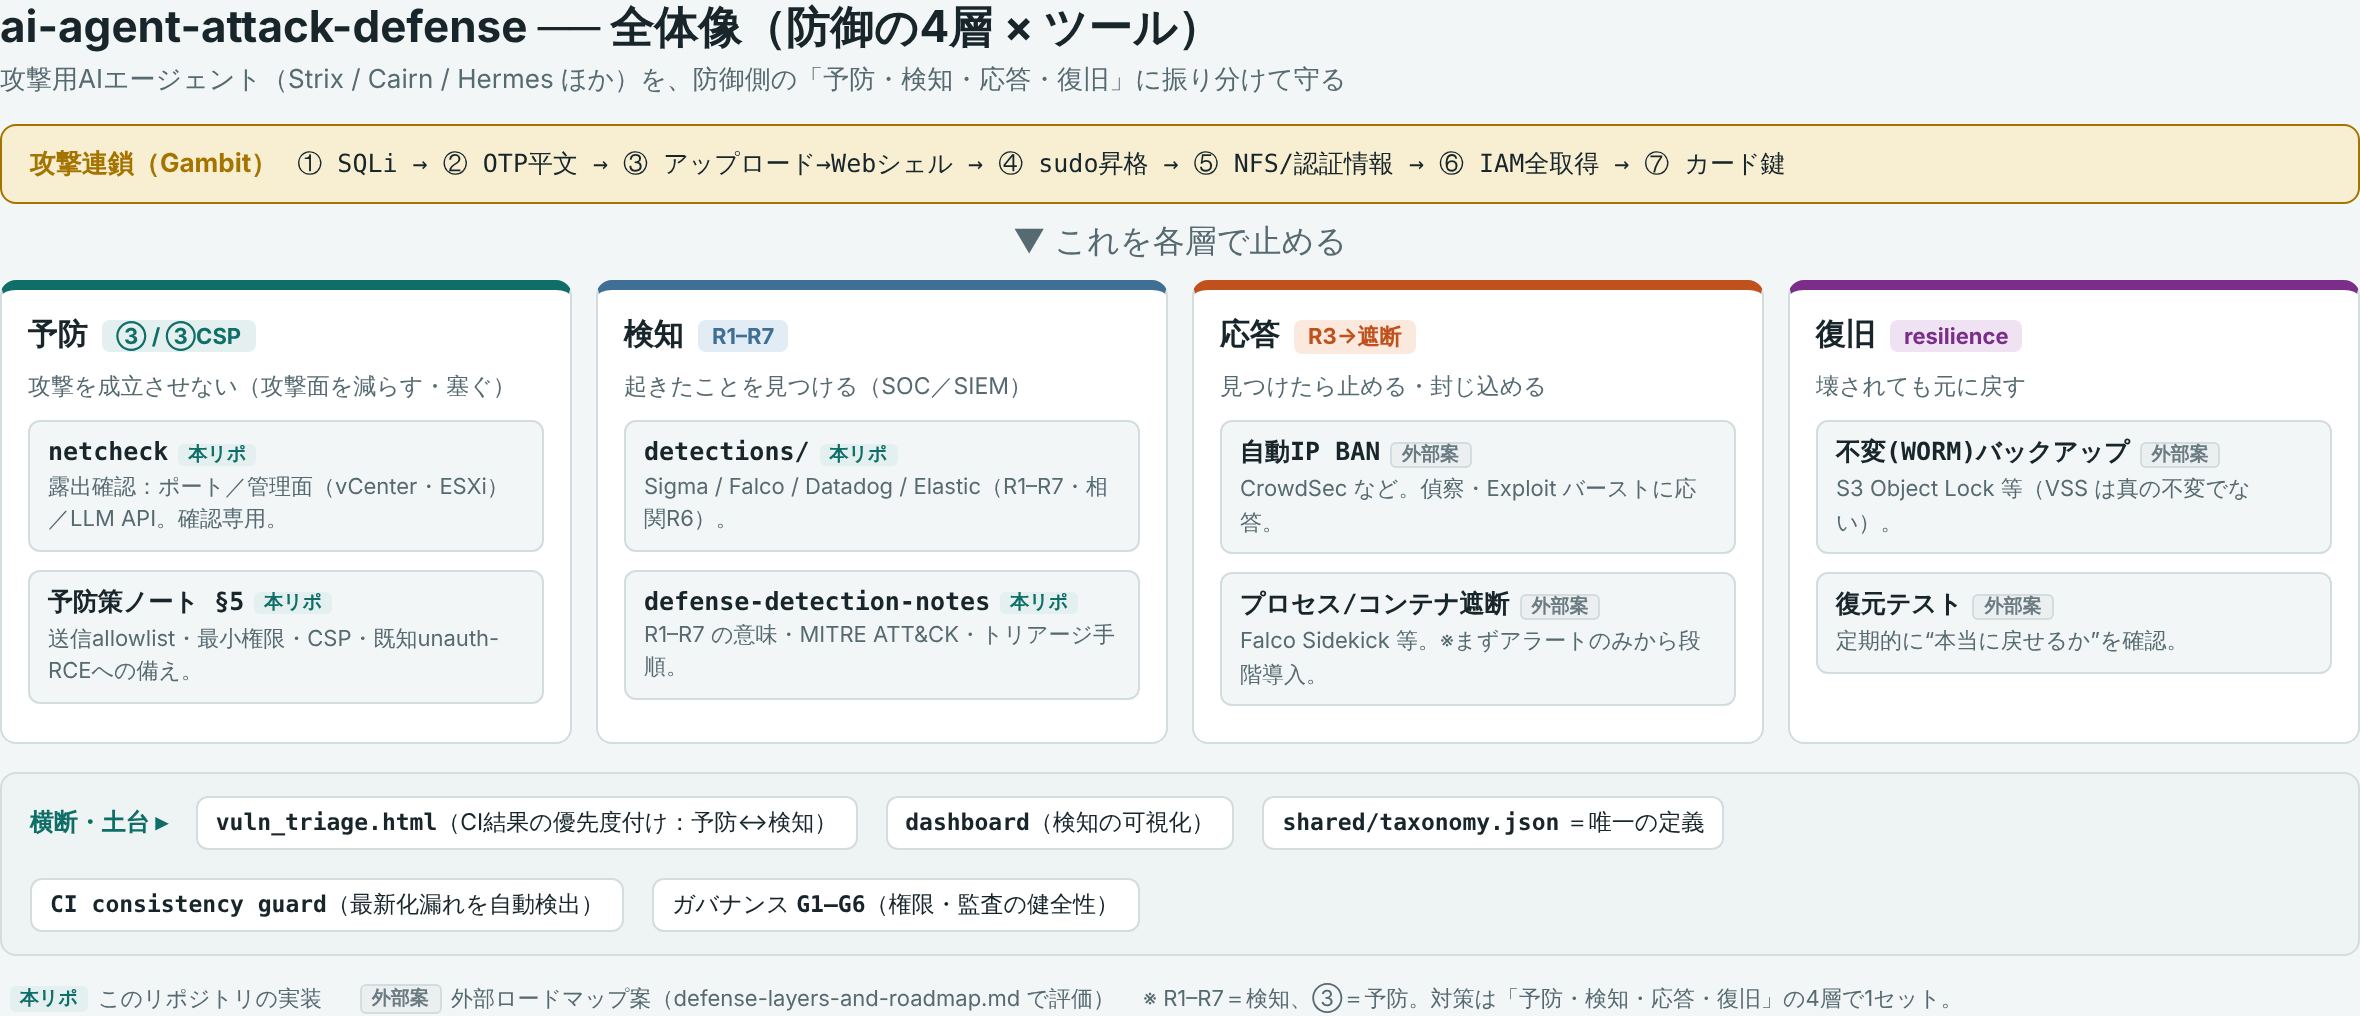
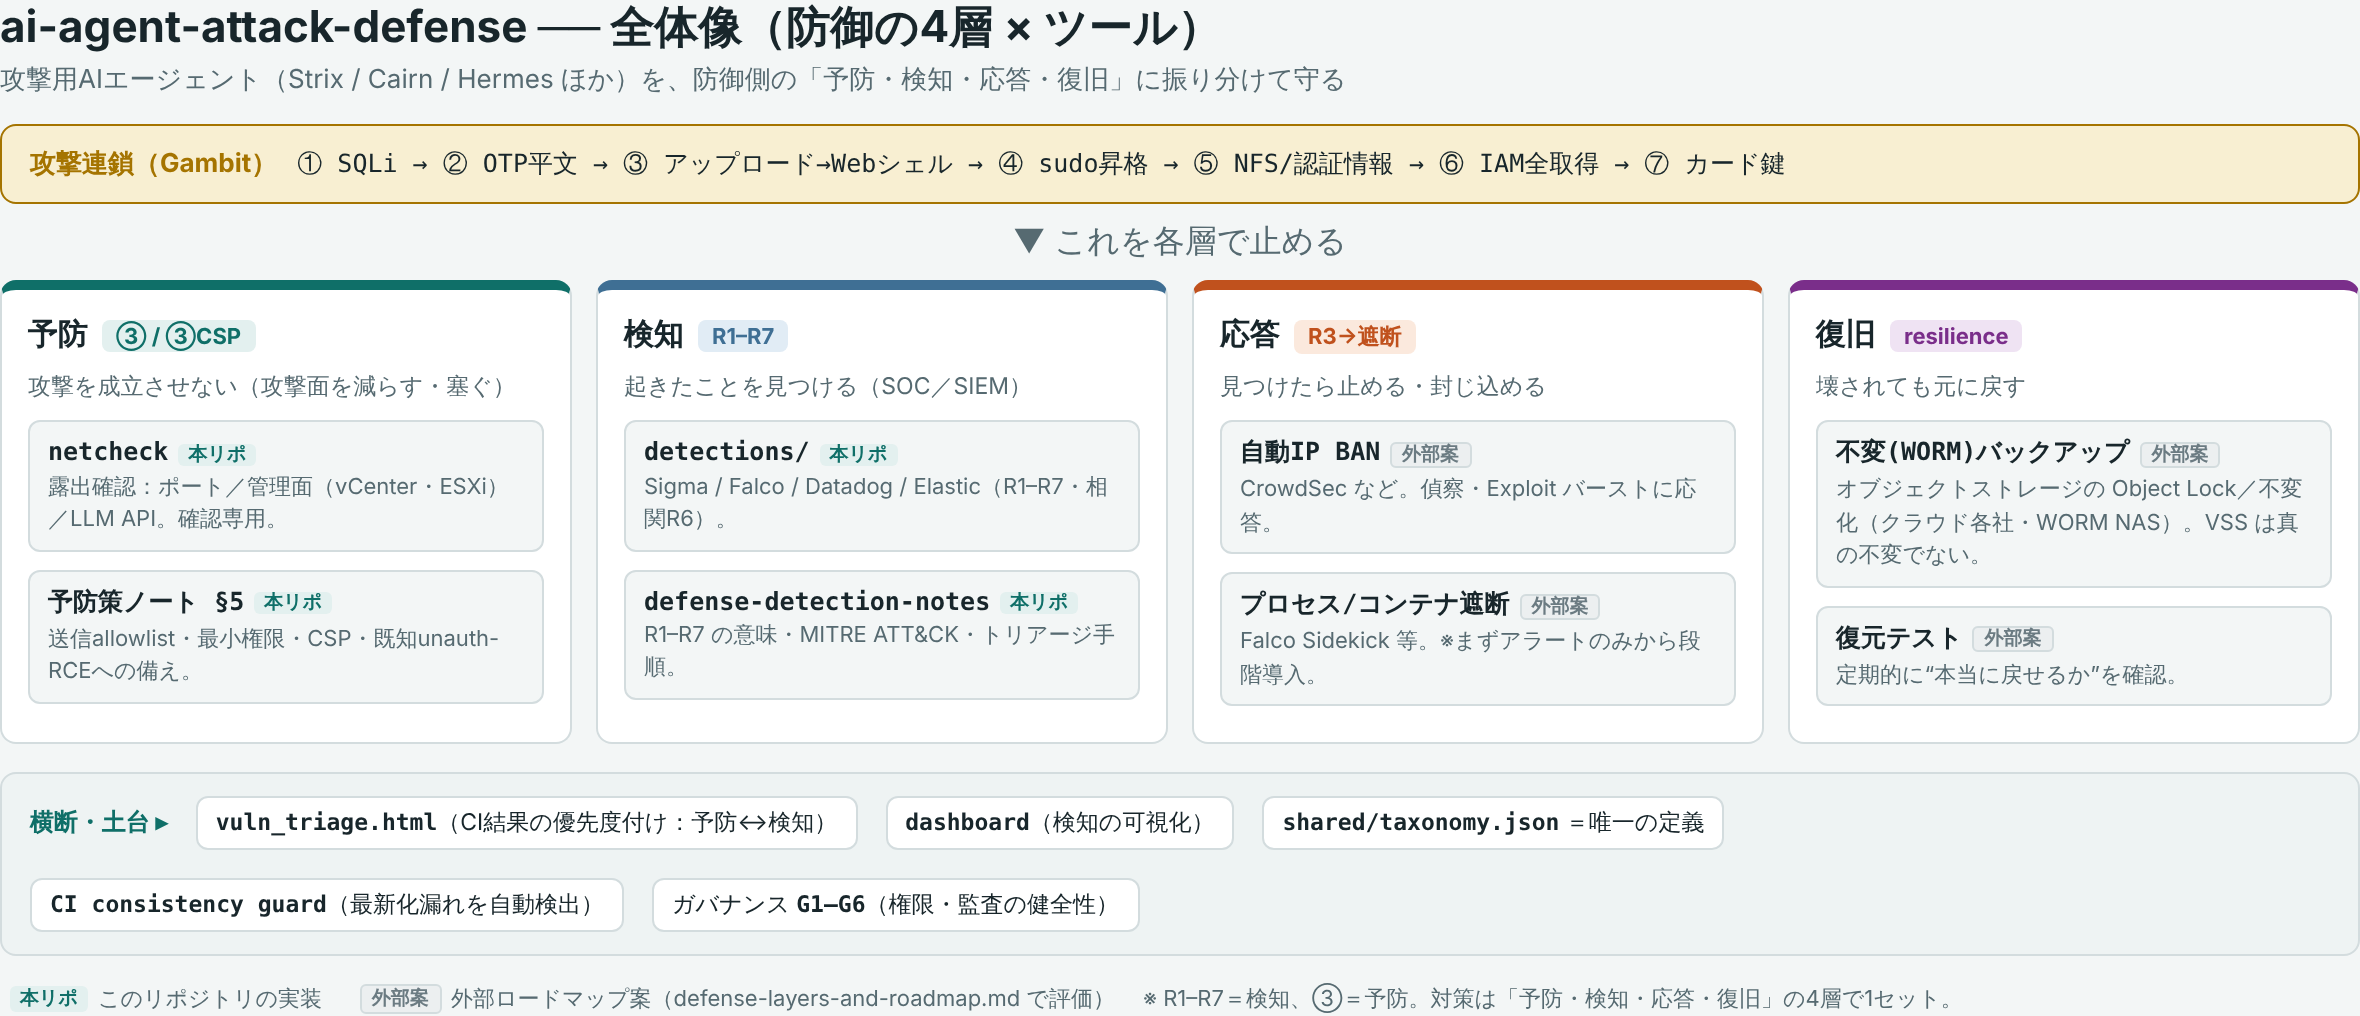
docs: 全体像の図とノートを AWS 非依存の表現に（WORM をストレージ中立化）
- overview-figure: 復旧カードの「S3 Object Lock 等」を「オブジェクトストレージの
  Object Lock／不変化（クラウド各社・WORM NAS）」に中立化し再レンダ。
- defense-layers-and-roadmap: 付録「クラウド/環境別の対応（製品名は変わる、役割は
  共通）」を追加（不変バックアップ/IAM/秘密情報管理/監査ログの AWS・Azure・GCP・
  オンプレ対応表）。VSS の比較も複数クラウド例に一般化。
- glossary: WORM の例を複数クラウド（S3/Azure/GCP/WORM NAS）に一般化。

ツール本体（netcheck/vuln_triage/detections）はもともとクラウド非依存。整合性チェック OK。

Claude-Session: https://claude.ai/code/session_017PiiPbfWPjiaquesxgPQkR

Changed region(s): [[0.7733, 0.4577, 0.9898, 0.7018]]

diff --git a/overview-figure.html b/overview-figure.html
@@ -86,7 +86,7 @@ h1 small{font-size:13px;color:var(--mu);font-weight:400;display:block;margin-top
       <h2>復旧 <span class="tag t-rec">resilience</span></h2>
       <div class="sub">壊されても元に戻す</div>
       <div class="item"><div class="nm">不変(WORM)バックアップ<span class="pill ext">外部案</span></div>
-        <div class="ds">S3 Object Lock 等（VSS は真の不変でない）。</div></div>
+        <div class="ds">オブジェクトストレージの Object Lock／不変化（クラウド各社・WORM NAS）。VSS は真の不変でない。</div></div>
       <div class="item"><div class="nm">復元テスト<span class="pill ext">外部案</span></div>
         <div class="ds">定期的に“本当に戻せるか”を確認。</div></div>
     </div>

diff --git a/security-scan/glossary.ja.md b/security-scan/glossary.ja.md
@@ -63,7 +63,7 @@
 | SRI（Subresource Integrity） | 外部スクリプトが改ざんされていないかを指紋で確認する仕組み。 |
 | FIM（ファイル改ざん検知） | 重要ファイルの変更・新規設置・削除を見張る仕組み。「カーネルレベル」はOSの通知機能でリアルタイムに捕まえる。Wazuh では Syscheck。本リポ記号では R5。 |
 | eBPF | Linux カーネル内で安全にプログラムを動かす技術。低負荷で挙動を監視できる（Falco などが利用）。 |
-| WORM（Write Once Read Many） | 一度書いたら消せない保存方式。ランサム対策になる。例：S3 Object Lock（Windows の VSS は管理者権限で消せるので“真のWORM”ではない）。 |
+| WORM（Write Once Read Many） | 一度書いたら消せない保存方式。ランサム対策になる。例：オブジェクトストレージの Object Lock／不変化（AWS S3 Object Lock・Azure 不変BLOB・GCP Bucket Lock・WORM NAS 等）。Windows の VSS は管理者権限で消せるので“真のWORM”ではない。 |
 | MFA / 2FA / OTP | 多要素認証。パスワードに加え、ワンタイムコード等で本人確認を強める。OTP を平文保存すると意味が薄れる。 |
 | IAM | クラウドの「誰が何をできるか」の権限管理。広すぎると1台破られただけで全体に波及。 |
 | NFS / no_root_squash | ファイル共有の仕組みと、その危険な設定。`no_root_squash` があると共有先の root 権限が通ってしまう。 |
